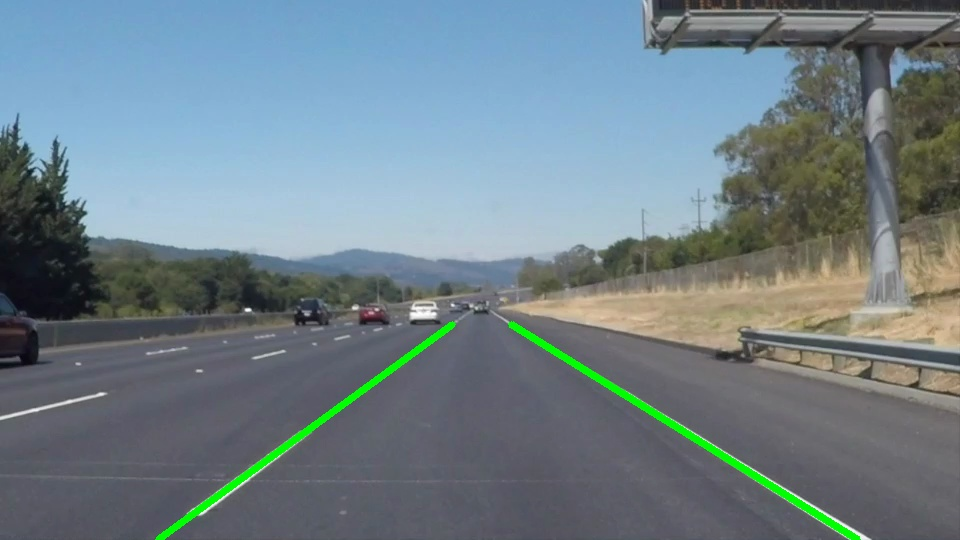
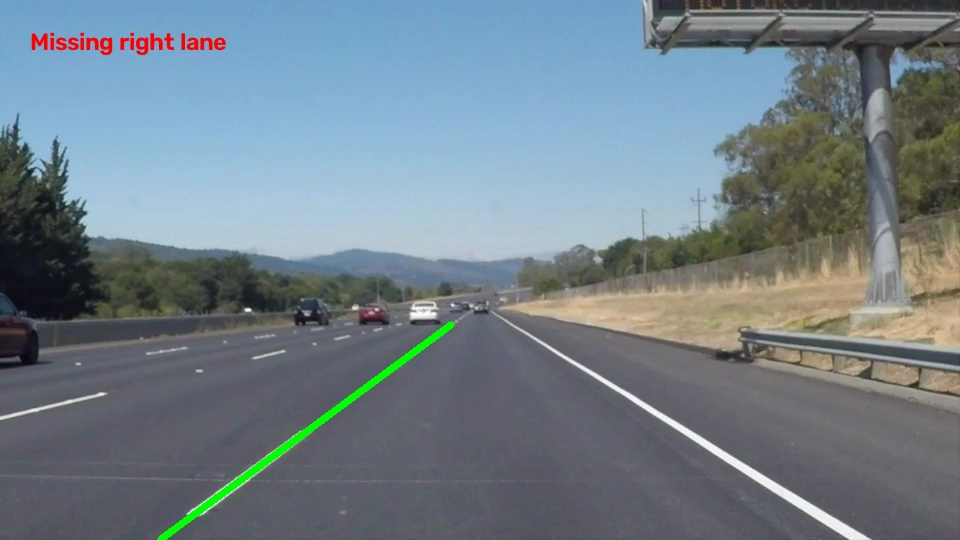
Improve lane detection filtering

diff --git a/src/opencv/lane_detection.py b/src/opencv/lane_detection.py
@@ -5,30 +5,121 @@ import numpy as np
 from .opencv_basics import preprocess_frame, save_outputs
 
 
-def average_line(line_list, height):
+
+def group_lane_lines(lines, width, height):
+    """
+    Phân loại các đoạn thẳng Hough thành làn trái và làn phải.
+    Lọc các đoạn thẳng không phù hợp trước khi phân loại.
+    """
+
+    left_lines = []
+    right_lines = []
+
+    if lines is None:
+        return left_lines, right_lines
+
+    center_x = width // 2
+
+    # Độ dài tối thiểu của một đoạn thẳng
+    min_length = max(30, int(height * 0.05))
+
+    for line in lines:
+        x1, y1, x2, y2 = line.reshape(-1)[:4]
+
+        dx = x2 - x1
+        dy = y2 - y1
+
+        # 1. Loại đoạn thẳng quá ngắn theo trục Y
+        if abs(dy) < 10:
+            continue
+
+        # 2. Tính độ dài đoạn thẳng
+        length = np.sqrt(dx ** 2 + dy ** 2)
+
+        if length < min_length:
+            continue
+
+        # 3. Tính độ dốc theo dạng x = a*y + b
+        slope = dx / dy
+
+        # Loại đoạn quá thoải hoặc quá dốc
+        if abs(slope) < 0.1 or abs(slope) > 1.5:
+            continue
+
+        # 4. Tính vị trí trung bình của đoạn thẳng
+        center_line_x = (x1 + x2) / 2
+
+        # 5. Phân loại làn trái và làn phải
+        if slope < 0 and center_line_x < center_x:
+            left_lines.append((x1, y1, x2, y2))
+
+        elif slope > 0 and center_line_x > center_x:
+            right_lines.append((x1, y1, x2, y2))
+
+    return left_lines, right_lines
+
+
+
+def average_line(line_list, height, width):
+    """
+    Gộp nhiều đoạn thẳng thành một đường đại diện.
+    Sử dụng trung bình có trọng số theo độ dài đoạn thẳng.
+    """
+
     if not line_list:
         return None
 
-    points = np.array(line_list, dtype=np.float64).reshape(-1, 2)
-    xs = points[:, 0]
-    ys = points[:, 1]
+    slopes = []
+    intercepts = []
+    weights = []
 
-    # Fit duong thang theo dang x = a*y + b
-    a, b = np.polyfit(ys, xs, 1)
+    for x1, y1, x2, y2 in line_list:
 
+        dy = y2 - y1
+
+        if abs(dy) < 10:
+            continue
+
+        # Phương trình: x = a*y + b
+        slope = (x2 - x1) / dy
+        intercept = x1 - slope * y1
+
+        length = np.sqrt(
+            (x2 - x1) ** 2 + (y2 - y1) ** 2
+        )
+
+        slopes.append(slope)
+        intercepts.append(intercept)
+        weights.append(length)
+
+    if not slopes:
+        return None
+
+    average_slope = np.average(slopes, weights=weights)
+    average_intercept = np.average(intercepts, weights=weights)
+
+    # Xác định hai điểm đầu và cuối của đường đại diện
     y_bottom = height - 1
     y_top = int(height * 0.60)
 
-    x_bottom = int(a * y_bottom + b)
-    x_top = int(a * y_top + b)
+    x_bottom = int(average_slope * y_bottom + average_intercept)
+    x_top = int(average_slope * y_top + average_intercept)
+
+    # Giới hạn tọa độ trong phạm vi ảnh
+    x_bottom = int(np.clip(x_bottom, 0, width - 1))
+    x_top = int(np.clip(x_top, 0, width - 1))
 
     return x_bottom, y_bottom, x_top, y_top
 
 
 def detect_lanes(frame, edges):
+    """
+    Phát hiện làn trái và làn phải từ ảnh Canny.
+    """
+
     height, width = frame.shape[:2]
 
-    # 1. Tao vung ROI
+    # 1. Tạo vùng ROI
     mask = np.zeros_like(edges)
 
     polygon = np.array([[
@@ -39,9 +130,10 @@ def detect_lanes(frame, edges):
     ]], dtype=np.int32)
 
     cv2.fillPoly(mask, polygon, 255)
+
     roi = cv2.bitwise_and(edges, mask)
 
-    # 2. Tim cac doan thang bang Hough Transform
+    # 2. Phát hiện các đoạn thẳng bằng Hough Transform
     lines = cv2.HoughLinesP(
         roi,
         rho=1,
@@ -51,53 +143,77 @@ def detect_lanes(frame, edges):
         maxLineGap=100
     )
 
-    left_lines = []
-    right_lines = []
+    # 3. Phân loại đoạn thẳng
+    left_lines, right_lines = group_lane_lines(
+        lines, width, height
+    )
 
-    center_x = width // 2
+    # 4. Gộp các đoạn thẳng thành hai đường đại diện
+    left_lane = average_line(left_lines, height, width)
+    right_lane = average_line(right_lines, height, width)
 
-    if lines is not None:
-        for line in lines:
-            x1, y1, x2, y2 = line.reshape(-1)[:4]
-
-            if x2 == x1:
-                continue
-
-            # Tinh do doc cua doan thang
-            slope = (y2 - y1) / (x2 - x1)
-
-            # Bo qua cac doan thang gan nam ngang
-            if abs(slope) < 0.4:
-                continue
-
-            # Tinh vi tri trung binh theo truc X
-            center_line_x = (x1 + x2) / 2
-
-            # Phan loai lan trai va lan phai
-            if slope < 0 and center_line_x < center_x:
-                left_lines.append((x1, y1, x2, y2))
-
-            elif slope > 0 and center_line_x > center_x:
-                right_lines.append((x1, y1, x2, y2))
-
-    # 3. Ve duong dai dai dien cho lan duong
+    # 5. Vẽ lên ảnh gốc
     result = frame.copy()
 
-    left_line = average_line(left_lines, height)
-    right_line = average_line(right_lines, height)
+    if left_lane is not None:
+        x1, y1, x2, y2 = left_lane
 
-    if left_line is not None:
-        x1, y1, x2, y2 = left_line
-        cv2.line(result, (x1, y1), (x2, y2), (0, 255, 0), 5)
+        cv2.line(
+            result,
+            (x1, y1),
+            (x2, y2),
+            (0, 255, 0),
+            5
+        )
 
-    if right_line is not None:
-        x1, y1, x2, y2 = right_line
-        cv2.line(result, (x1, y1), (x2, y2), (0, 255, 0), 5)
+    if right_lane is not None:
+        x1, y1, x2, y2 = right_lane
 
-    return roi, result
+        cv2.line(
+            result,
+            (x1, y1),
+            (x2, y2),
+            (0, 255, 0),
+            5
+        )
+
+    # 6. Xác định trạng thái phát hiện làn
+    if left_lane is not None and right_lane is not None:
+        status = "Both lanes detected"
+
+    elif left_lane is not None:
+        status = "Missing right lane"
+
+    elif right_lane is not None:
+        status = "Missing left lane"
+
+    else:
+        status = "No lanes detected"
+
+    cv2.putText(
+        result,
+        status,
+        (30, 50),
+        cv2.FONT_HERSHEY_SIMPLEX,
+        0.8,
+        (0, 0, 255),
+        2
+    )
+
+    # Thông tin phục vụ kiểm tra
+    lane_info = {
+        "left_lane": left_lane,
+        "right_lane": right_lane,
+        "left_segments": len(left_lines),
+        "right_segments": len(right_lines),
+        "status": status
+    }
+
+    return roi, result, lane_info
 
 
 def run_lane_detection(video_path="videos/road.mp4"):
+
     cap = cv2.VideoCapture(video_path)
 
     if not cap.isOpened():
@@ -112,24 +228,32 @@ def run_lane_detection(video_path="videos/road.mp4"):
         if not ret:
             break
 
+        # Tiền xử lý ảnh
         gray, blur, edges = preprocess_frame(frame)
-        roi, result = detect_lanes(frame, edges)
 
+        # Phát hiện làn đường
+        roi, result, lane_info = detect_lanes(frame, edges)
+
+        # Hiển thị kết quả
         cv2.imshow("Original Video", frame)
         cv2.imshow("Gray Image", gray)
+        cv2.imshow("Gaussian Blur", blur)
         cv2.imshow("Canny Edges", edges)
         cv2.imshow("ROI Edges", roi)
-        cv2.imshow("Lane Lines", result)
+        cv2.imshow("Lane Detection", result)
 
+        # Lưu kết quả frame đầu tiên
         if not saved_images:
             save_outputs(frame, gray, edges, roi, result)
             saved_images = True
 
+        # Nhấn Q để thoát
         if cv2.waitKey(25) & 0xFF == ord("q"):
             break
 
     cap.release()
     cv2.destroyAllWindows()
+
     print("Hoan thanh!")
 
 
